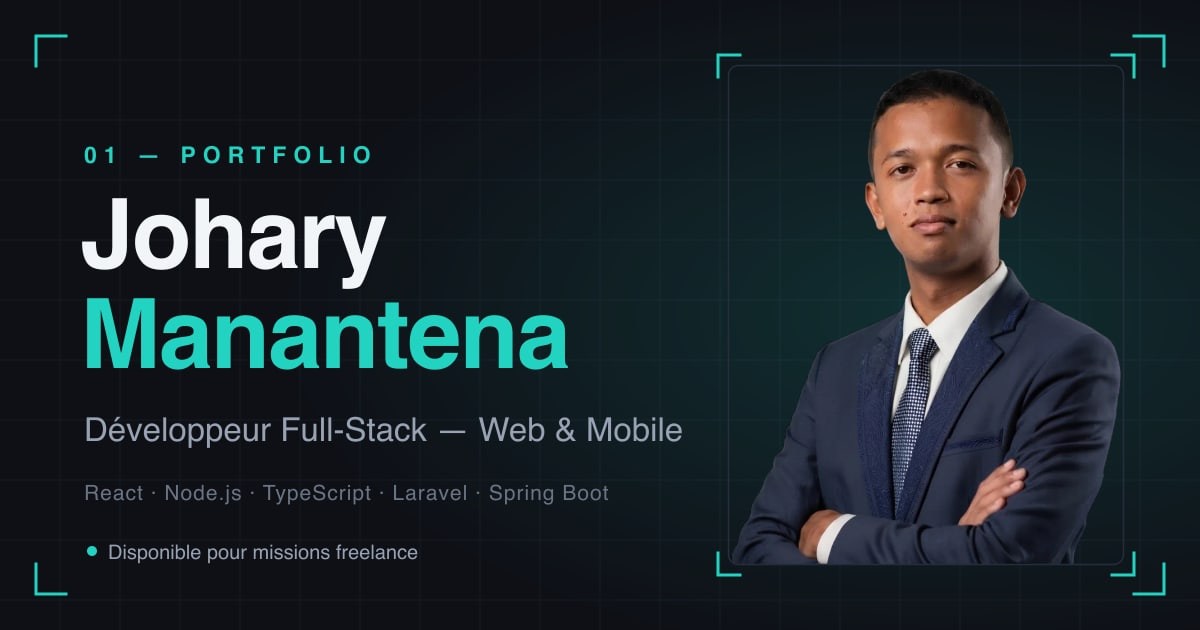
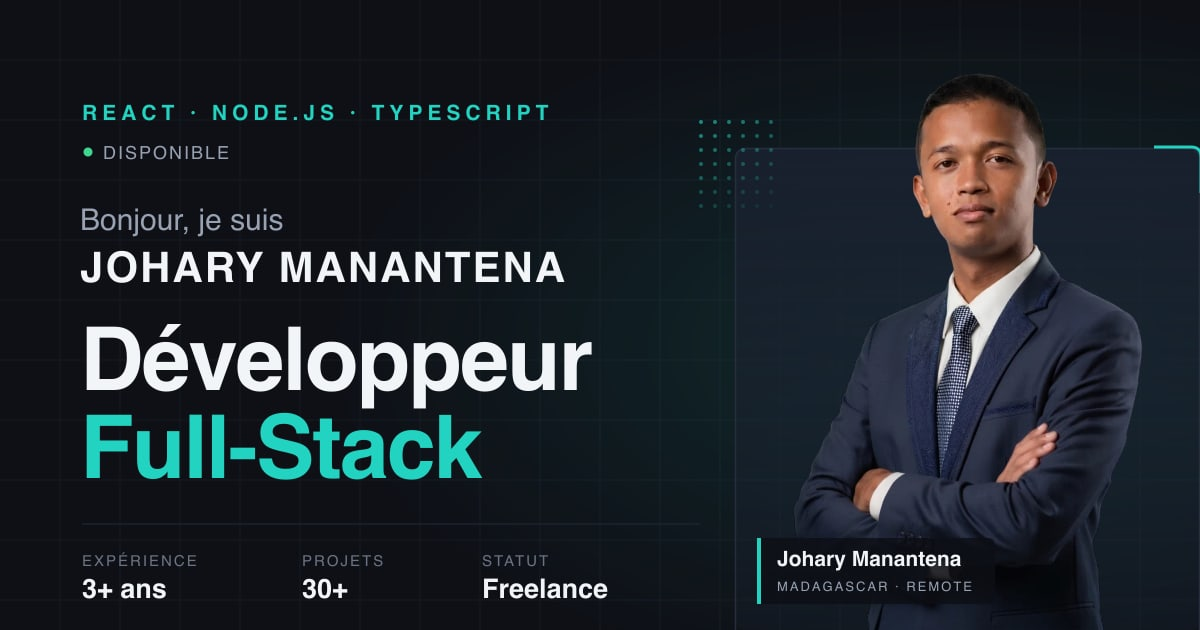
feat(brand): header flottant restauré + og-image alignée sur le Hero éditorial
- Header : retour de la pilule flottante translucide avec blur (style
  historique du site), plafonnée à max-w-7xl et centrée sur très grands
  écrans ; conserve le soulignement actif et les contenus actuels
- og-image régénérée au langage visuel du nouveau Hero : portrait détouré
  debout sur panneau (tête débordante), trame de points et équerre teal,
  cartouche d'identité à filet teal (nom + Madagascar · Remote), hiérarchie
  « Bonjour, je suis / JOHARY MANANTENA / Développeur Full-Stack » et rangée
  de stats avec filet

diff --git a/src/components/Navigation.tsx b/src/components/Navigation.tsx
@@ -58,12 +58,10 @@ const Navigation = ({
 
   return (
     <>
-      {/* Barre supérieure sobre : pleine largeur, fond opaque + filet de séparation
-          (pas de panneau translucide à reflouter à chaque frame de scroll). */}
-      <header className="rise fixed top-0 left-0 right-0 z-header bg-background/95 border-b border-border/60">
-        {/* Mêmes retraits que .section-container : les bords du header et du
-            contenu restent alignés à toutes les largeurs. */}
-        <div className="max-w-7xl mx-auto px-4 sm:px-6 md:px-8 lg:px-12 py-2.5 md:py-3 flex items-center justify-between">
+      {/* Header flottant — pilule détachée du bord, fond translucide + blur
+          (style historique du site, conservé à la demande). */}
+      <header className="rise fixed top-0 left-0 right-0 z-header">
+        <div className="mx-4 md:mx-8 mt-3 md:mt-4 rounded-2xl bg-background/60 backdrop-blur-xl border border-border/40 shadow-soft max-w-7xl xl:mx-auto px-4 md:px-6 py-3 md:py-4 flex items-center justify-between">
           <a
             href="#accueil"
             className="text-xl md:text-2xl font-display font-bold tracking-tight rounded-md cursor-pointer transition-opacity hover:opacity-70 focus-visible:outline-none focus-visible:ring-2 focus-visible:ring-ring focus-visible:ring-offset-2"
